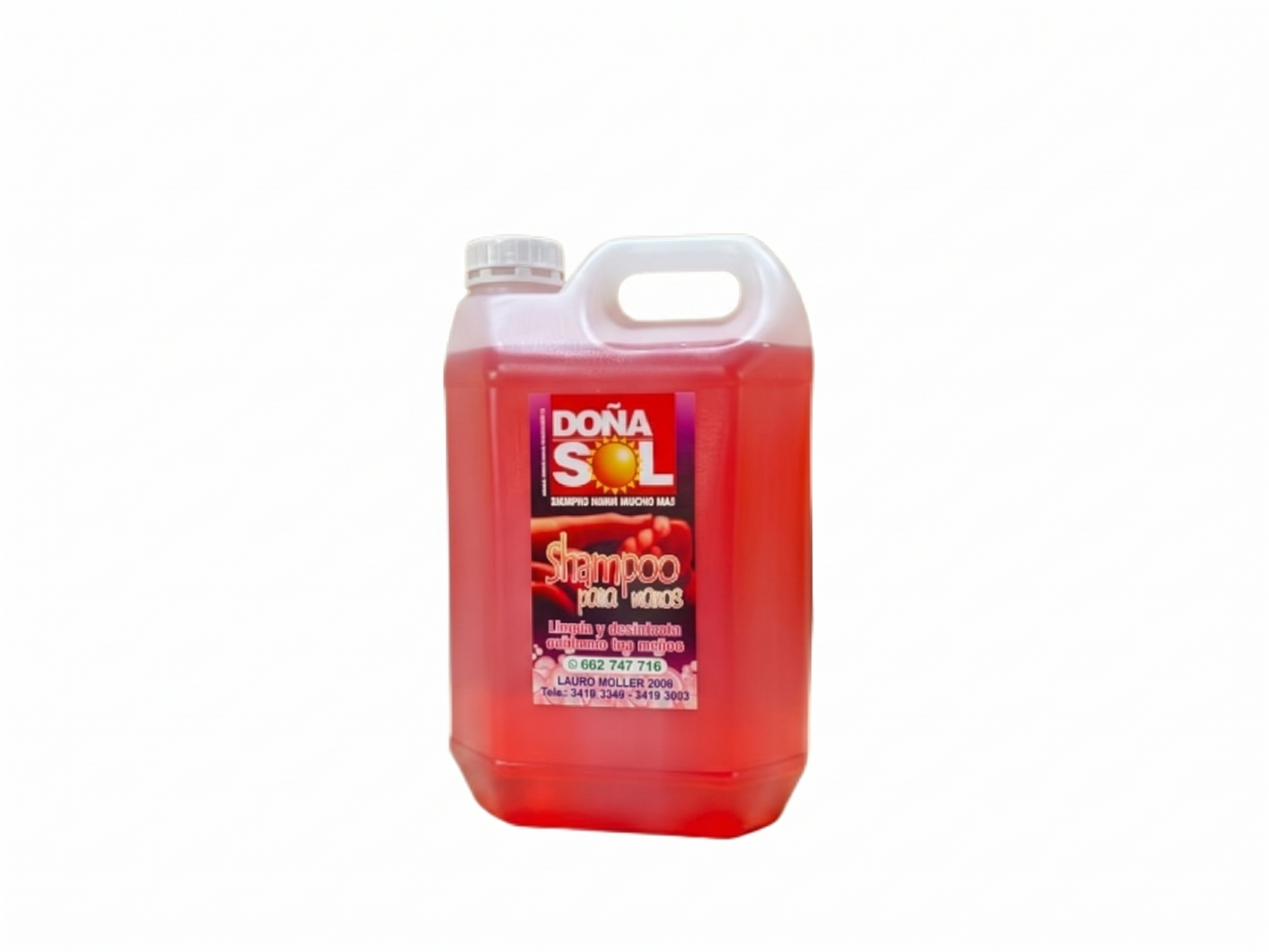
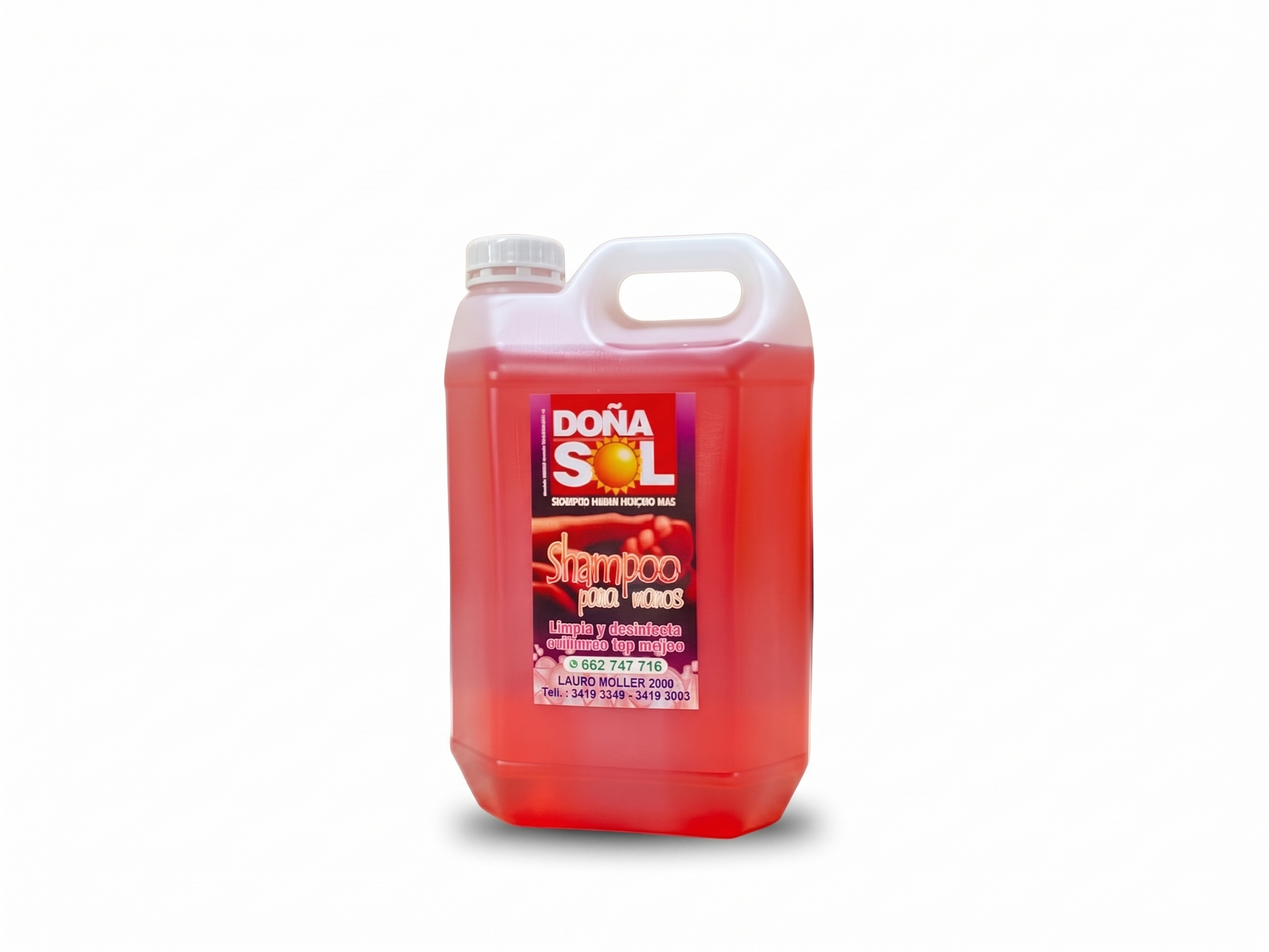
Shampoo para Manos: foto en mejor calidad

diff --git a/index.html b/index.html
@@ -19,7 +19,7 @@
   <link href="https://fonts.googleapis.com/css2?family=Archivo:wdth,wght@75..125,500..900&family=Caveat:wght@600;700&family=Figtree:wght@400;500;600;700;800&display=swap" rel="stylesheet">
   <!-- ?v= : cambiarlo cada vez que se modifique el CSS o el JS, así los
        celulares no mezclan archivos nuevos con otros viejos guardados -->
-  <link rel="stylesheet" href="css/styles.css?v=20261019e">
+  <link rel="stylesheet" href="css/styles.css?v=20261019f">
 
   <script type="application/ld+json">
   {
@@ -730,7 +730,7 @@
   </div>
 </dialog>
 
-<script src="js/productos.js?v=20261019e"></script>
-<script src="js/app.js?v=20261019e"></script>
+<script src="js/productos.js?v=20261019f"></script>
+<script src="js/app.js?v=20261019f"></script>
 </body>
 </html>

diff --git a/js/productos.js b/js/productos.js
@@ -154,7 +154,7 @@ window.DONASOL = {
     },
     {
       id: 'shampoo-manos', cat: 'higiene', nombre: 'Shampoo para Manos',
-      img: 'img/productos/shampoo-manos.jpg', zoom: 1.45,
+      img: 'img/productos/shampoo-manos-rojo.jpg', zoom: 1.45,
       desc: 'Limpia y desinfecta cuidando tus manos.',
       tamanos: [{ t: '5 L', clave: 'jabon-manos' }]
     },
